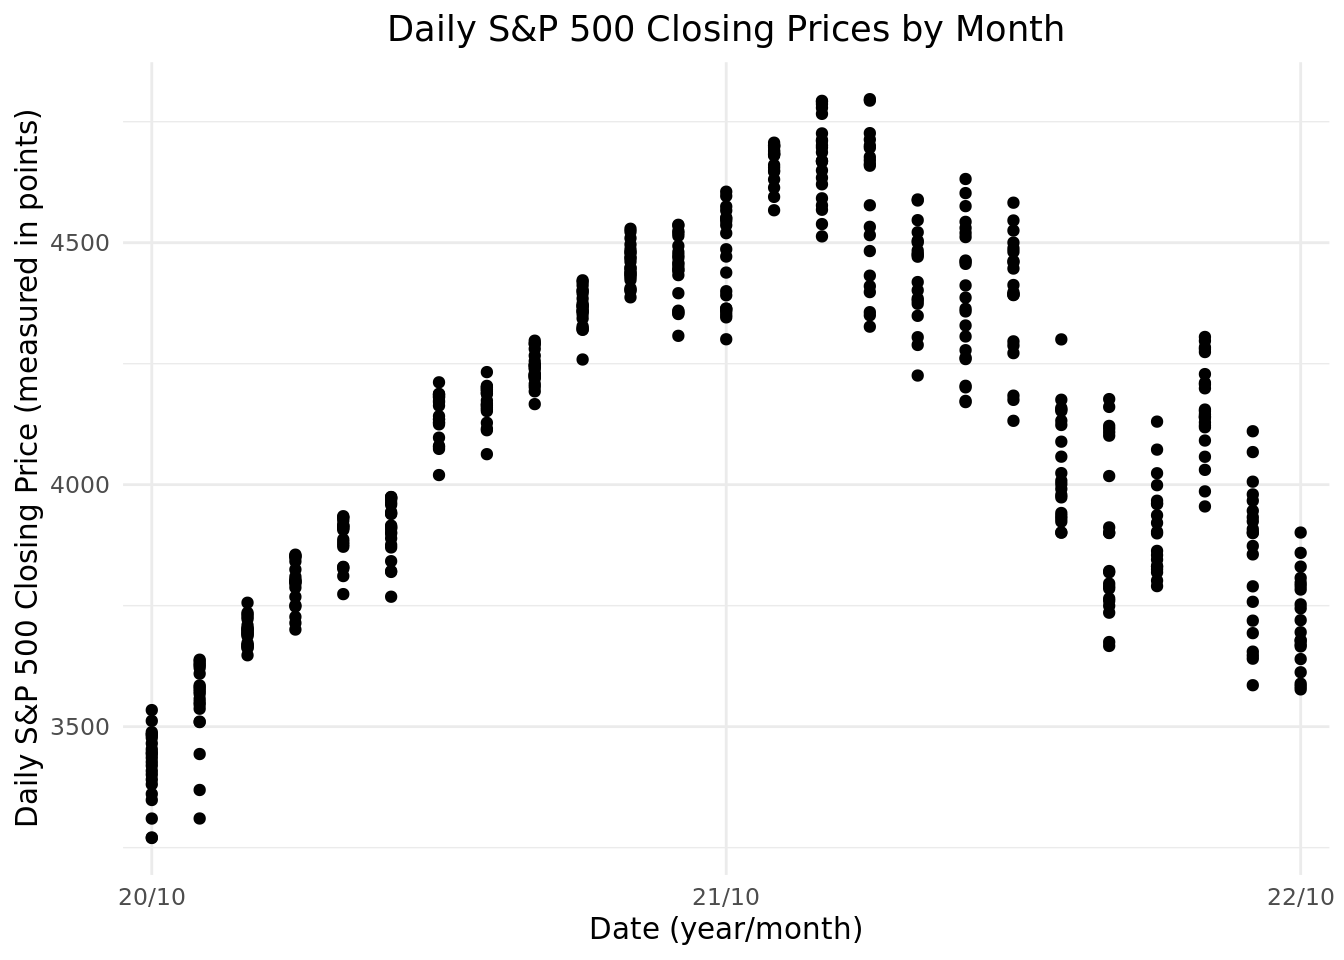
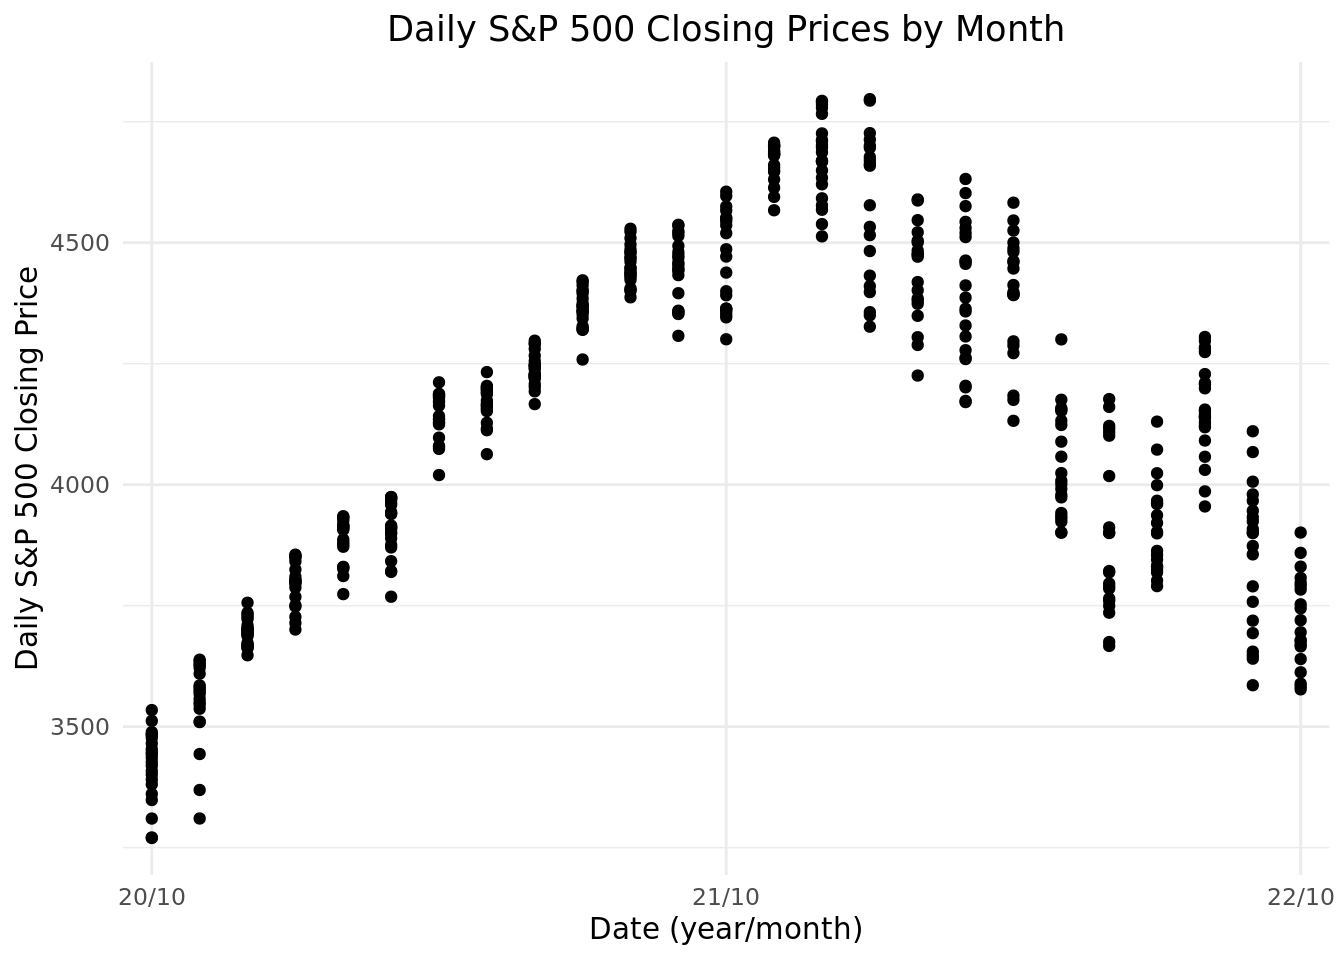
added data info to intro, closes #5

Changed region(s): [[0.0, 0.125, 0.0312, 0.875]]

diff --git a/docs/report.html b/docs/report.html
@@ -211,6 +211,7 @@ code span.wa { color: #60a0b0; font-weight: bold; font-style: italic; } /* Warni
 <li><p>How closely has the current performance of the market (the past two years) followed these historical trends?</p></li>
 <li><p>And finally, does the current high-rate economic climate disproportionately affect some companies/sectors more than others? If so, why?</p></li>
 </ul>
+<p>For our historical analysis, we’ll utilize a data set that includes yearly averages for the federal funds rate, inflation rate, and the S&amp;P 500’s return percentage from 1961 to 2020 in order to examine trends during this timeframe. For our current-day analysis, we’ll utilize a data set that details the S&amp;P 500’s daily performance over the past two years to compare our historical findings with recent trends. Lastly, we have a data set that includes each company in the S&amp;P 500 index, along with their sector and year-to-date performance, which we’ll use to examine whether certain companies/sectors have performed better as rates have risen throughout this year.</p>
 <p>We believe the overall stock market would be hurt by high inflation and corresponding high interest rates, both because consumers’ discretionary incomes drop and because companies are disincentivized from borrowing, due to the higher costs associated with taking out a loan. We expect to see this relationship in both our historical analysis and our current-day analysis. Conversely, in times of lower rates, we expect market returns to be higher, on average. Though we expect the stock market as a whole to suffer from high rates, we believe certain sectors of the economy could serve as silver linings for investors’ pockets; these industries include: financials, health care, utilities, and consumer staples. We believe these sectors could perform better than the aggregate market because they sell essential goods that consumers must purchase no matter the state of the economy (health care, utilities, and consumer staples). Also, we believe the financials sector will do well because banks are able to charge higher interest rates on their loans (and thus earn greater profits) when interest rates are high.</p>
 <p>Note: We are using the S&amp;P 500 as a model of the performance of the entire market, and we are using the federal-funds rate, the interest rate at which banks loan to other banks, to model the general trend of all interest rates. We believed these are logical assumptions, as the S&amp;P 500 includes the 500 largest US-based companies (and thus covers a large portion of the total market) and the federal-funds rate generally serves as a benchmark for all other interest rates (because it is indirectly influenced by the Federal Reserve’s policies). Also, all of our observations feature the performance of the market (S&amp;P 500) or an individual company in the S&amp;P 500 on a specific day/month/year.</p>
 <div style="page-break-after: always;"></div>
@@ -226,8 +227,8 @@ code span.wa { color: #60a0b0; font-weight: bold; font-style: italic; } /* Warni
 <p>All of these sites collected these data by retrieving the data published publicly on stock exchanges, except for the federal-funds rate–this data was collected from the World Bank. In addition, each of these sites updates their data monthly/yearly (although they could update it daily, as they are collecting live data). Each observation represents a month in a year (between 1961 and 2020) and includes the following variables:</p>
 <table class="table">
 <colgroup>
-<col style="width: 30%">
-<col style="width: 69%">
+<col style="width: 29%">
+<col style="width: 70%">
 </colgroup>
 <thead>
 <tr class="header">
@@ -458,8 +459,8 @@ $ decade                  &lt;chr&gt; "'60s", "'60s", "'60s", "'60s", "'60s", "'
 <p>Investing.com gets their data from financial-data providers, including stock exchanges and/or directly from market makers (who set stock prices to match supply and demand). The data is collected in real time by monitoring transactions (selling, buying, etc.) executed in the stock market, which correspond to increases/decreases in prices. Each observation represents a different day (between 1 October 2020 and 28 October 2022) and includes the following variables:</p>
 <table class="table">
 <colgroup>
-<col style="width: 29%">
-<col style="width: 70%">
+<col style="width: 27%">
+<col style="width: 72%">
 </colgroup>
 <thead>
 <tr class="header">
@@ -530,7 +531,7 @@ $ gain                 &lt;lgl&gt; TRUE, FALSE, TRUE, TRUE, TRUE, TRUE, FALSE, F
 <span id="cb14-13"><a href="#cb14-13" aria-hidden="true" tabindex="-1"></a>  <span class="fu">scale_x_discrete</span>(<span class="at">breaks=</span><span class="fu">c</span>(<span class="st">"20/10"</span>,<span class="st">"21/10"</span>, <span class="st">"22/10"</span>)) <span class="sc">+</span></span>
 <span id="cb14-14"><a href="#cb14-14" aria-hidden="true" tabindex="-1"></a>  <span class="fu">labs</span>(</span>
 <span id="cb14-15"><a href="#cb14-15" aria-hidden="true" tabindex="-1"></a>    <span class="at">x =</span> <span class="st">"Date (year/month)"</span>,</span>
-<span id="cb14-16"><a href="#cb14-16" aria-hidden="true" tabindex="-1"></a>    <span class="at">y =</span> <span class="st">"Daily S&amp;P 500 Closing Price (measured in points)"</span>,</span>
+<span id="cb14-16"><a href="#cb14-16" aria-hidden="true" tabindex="-1"></a>    <span class="at">y =</span> <span class="st">"Daily S&amp;P 500 Closing Price"</span>,</span>
 <span id="cb14-17"><a href="#cb14-17" aria-hidden="true" tabindex="-1"></a>    <span class="at">title =</span> <span class="st">"Daily S&amp;P 500 Closing Prices by Month"</span></span>
 <span id="cb14-18"><a href="#cb14-18" aria-hidden="true" tabindex="-1"></a>  ) <span class="sc">+</span></span>
 <span id="cb14-19"><a href="#cb14-19" aria-hidden="true" tabindex="-1"></a>  <span class="fu">theme_minimal</span>() <span class="sc">+</span></span>
@@ -626,8 +627,8 @@ $ gain                 &lt;lgl&gt; TRUE, FALSE, TRUE, TRUE, TRUE, TRUE, FALSE, F
 <p>DATA HUB collected their data from S&amp;P Dow Jones Indices (which, in turn, is collected daily from stock exchanges), and Slickcharts their data directly from the stock exchange. Each observation represents a different company and includes the following variables:</p>
 <table class="table">
 <colgroup>
-<col style="width: 25%">
-<col style="width: 75%">
+<col style="width: 22%">
+<col style="width: 77%">
 </colgroup>
 <thead>
 <tr class="header">
